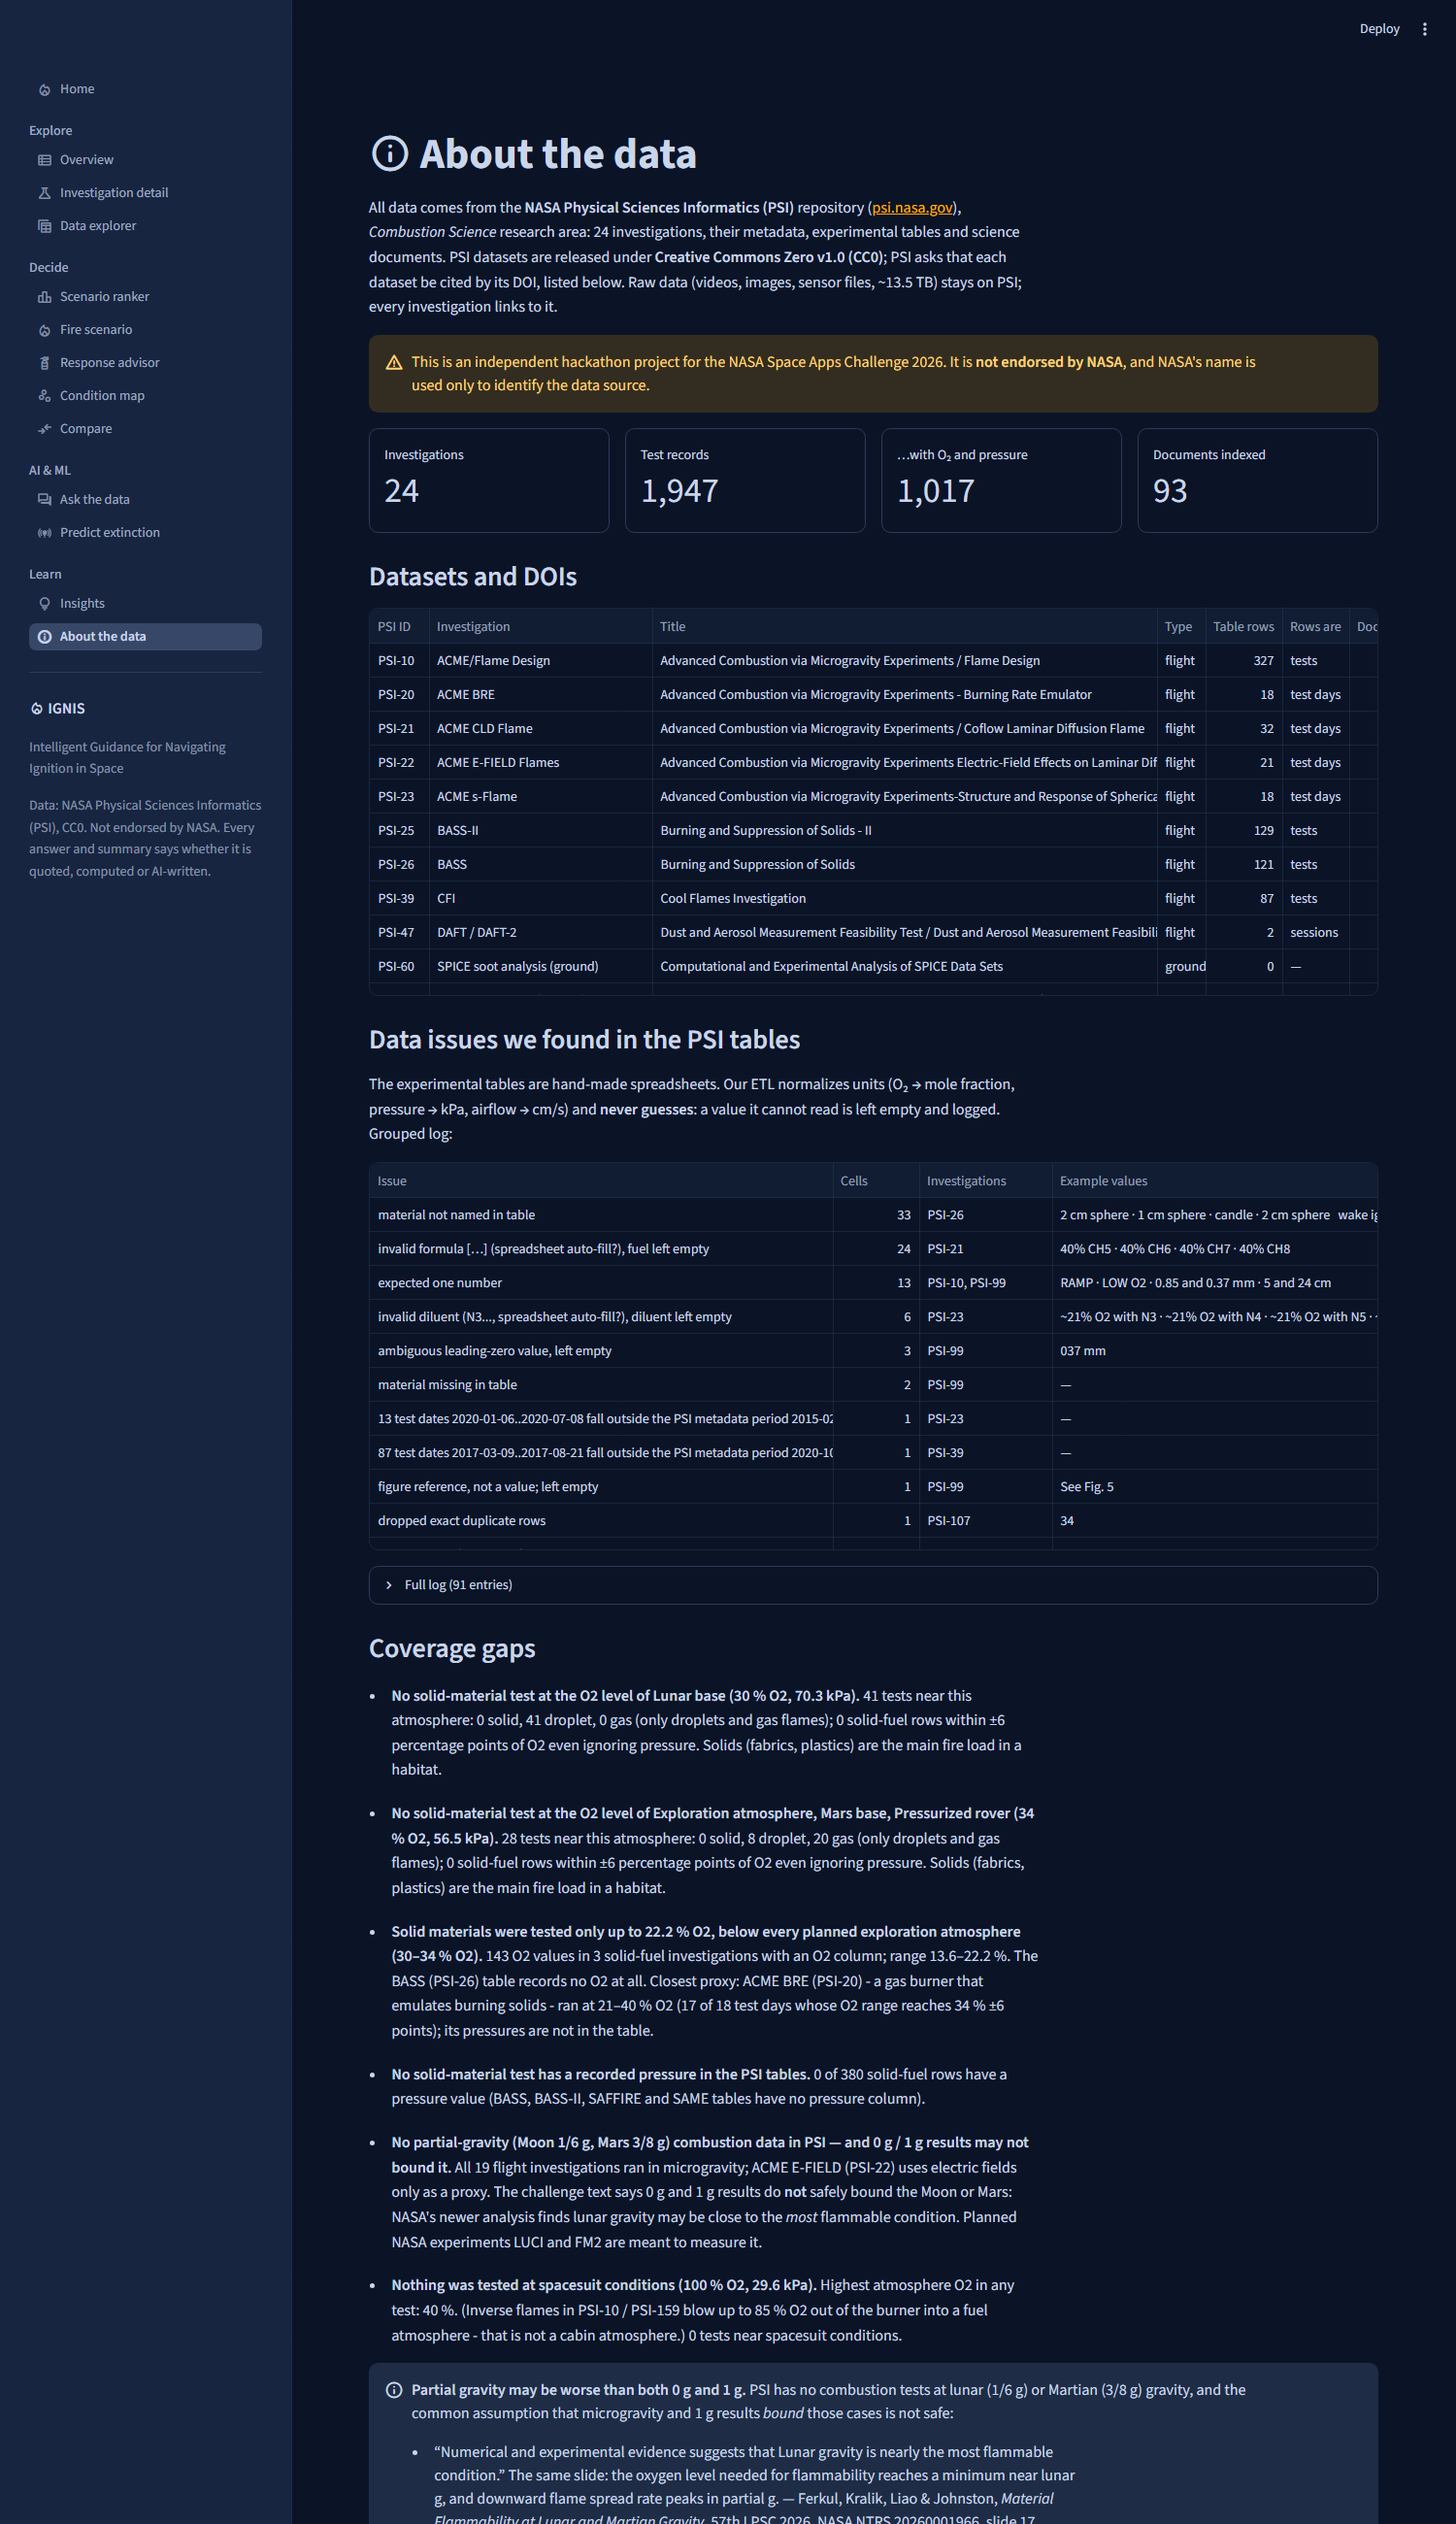
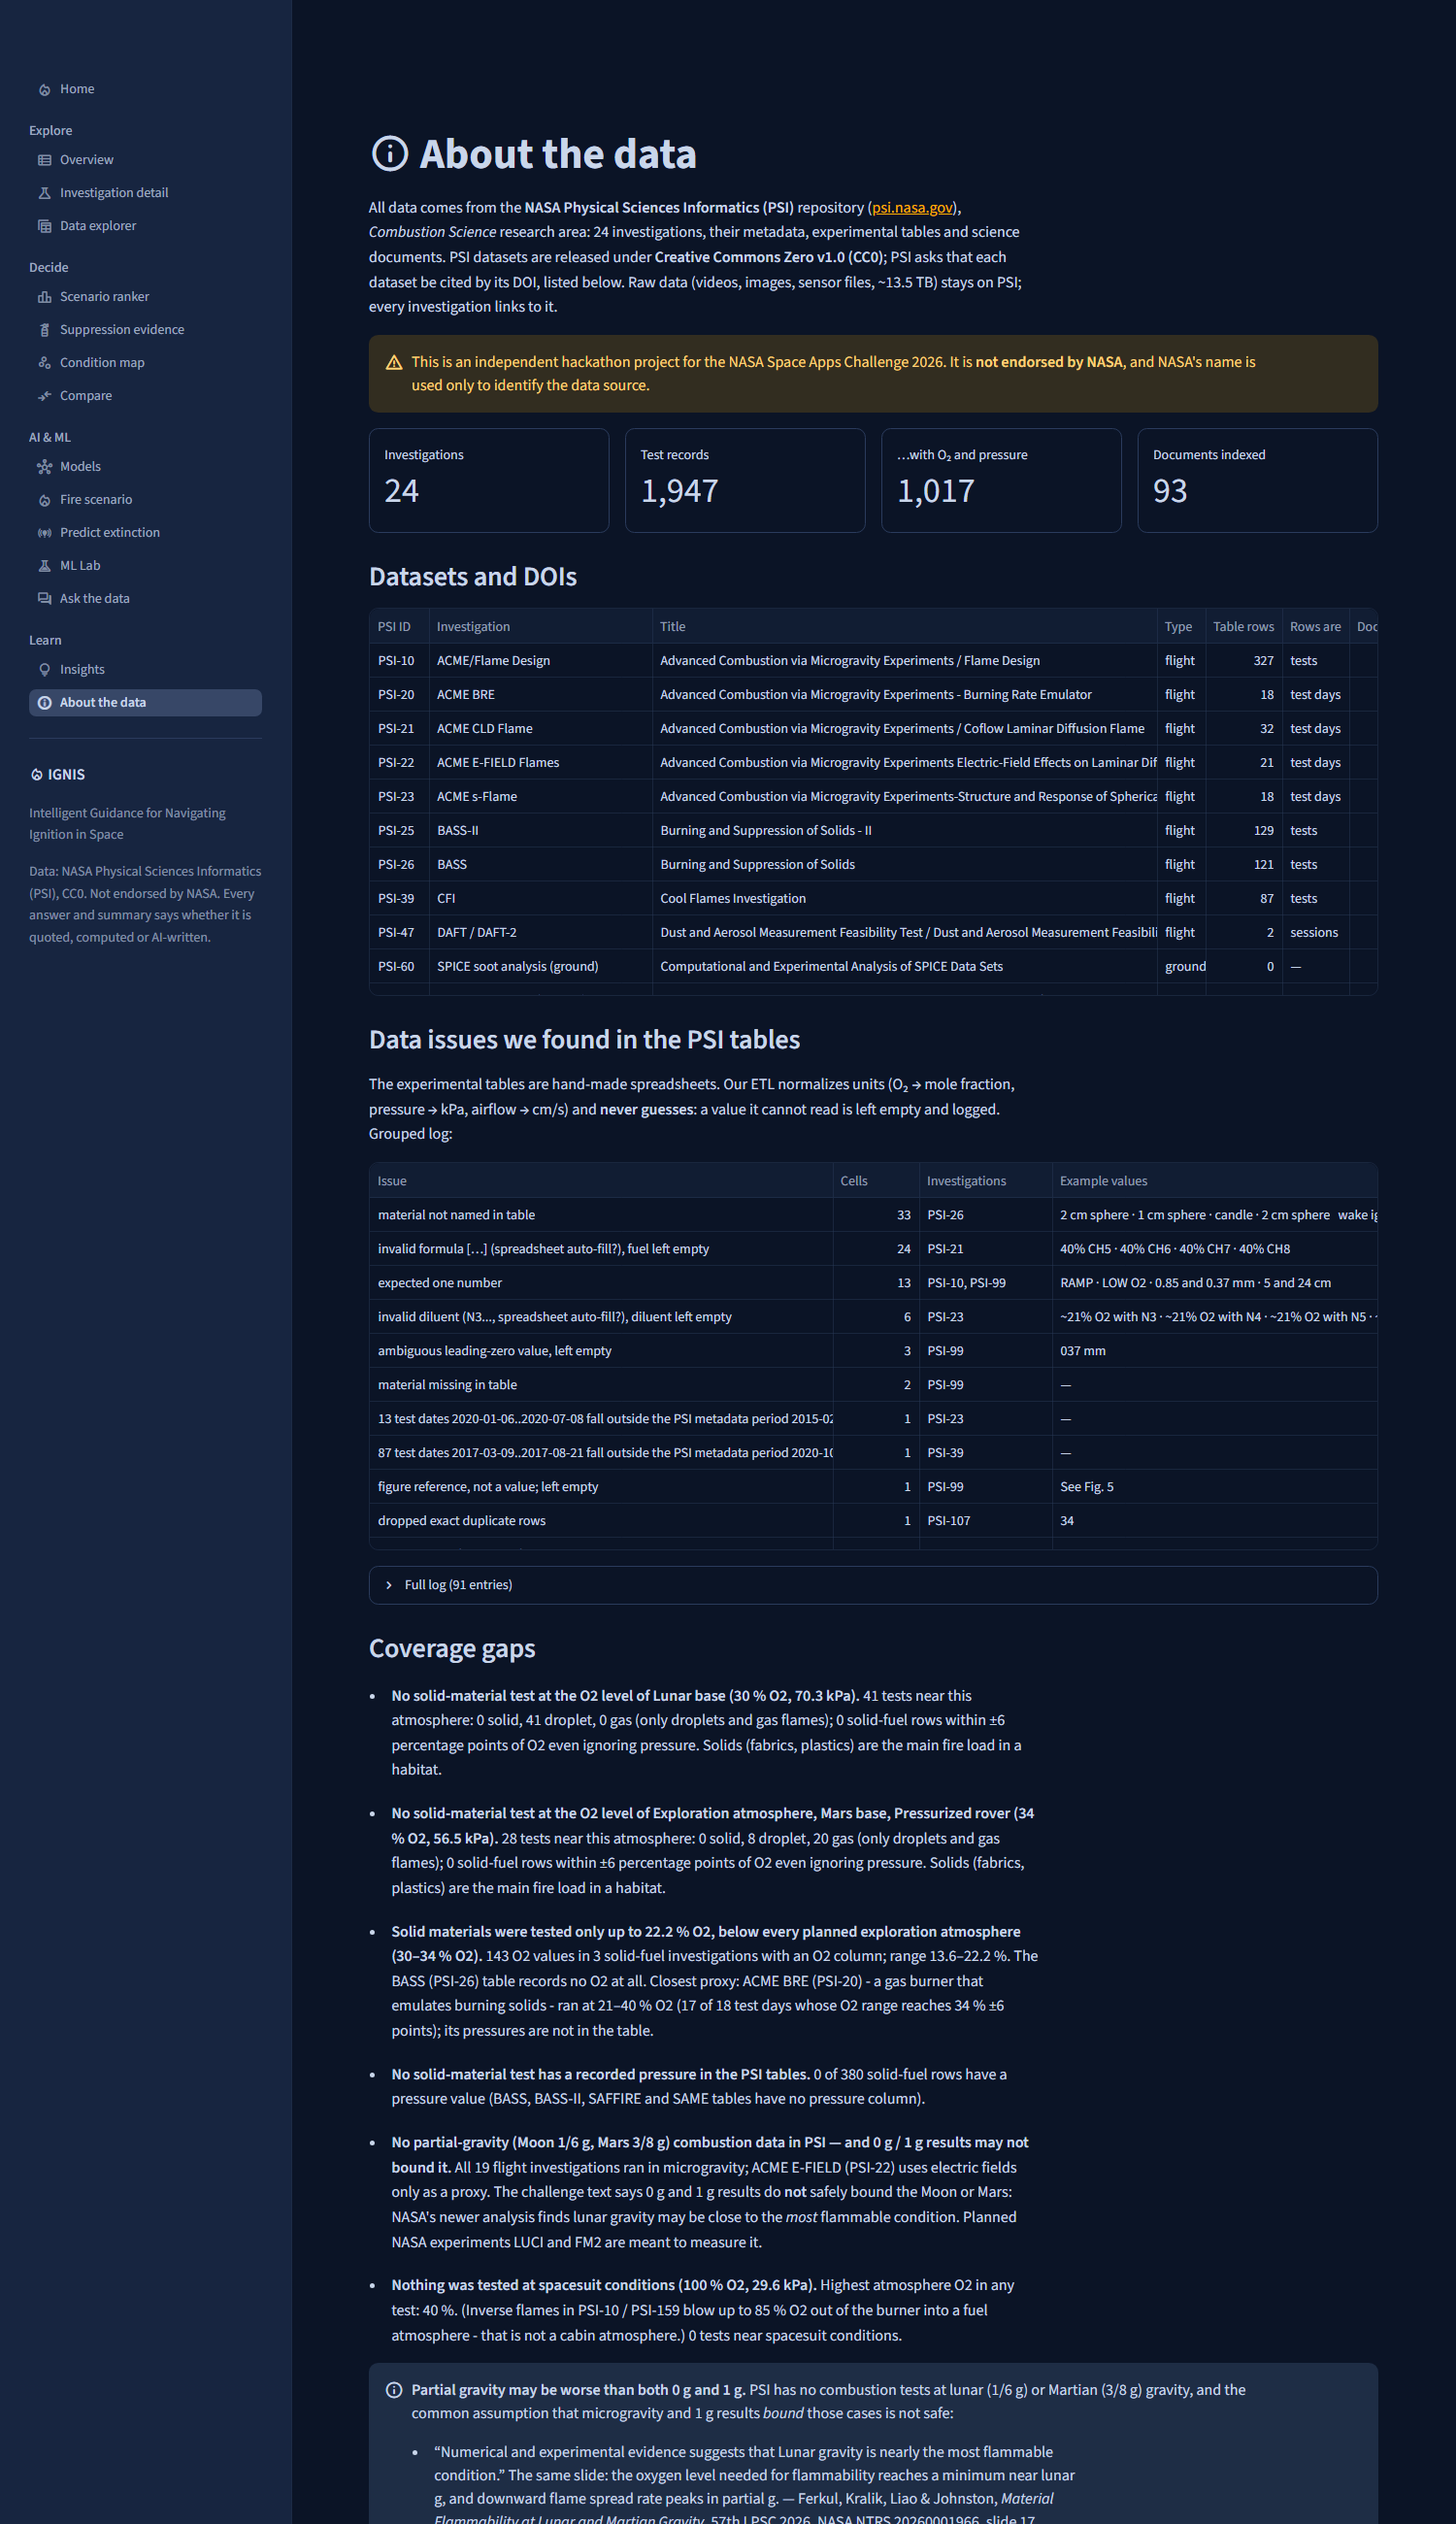
Demo polish: no developer toolbar, no local skills nudge; all screenshots re-taken after items 1-4
#65 item 5 (pc3 part):
- .streamlit/config.toml: [client] toolbarMode = "minimal" (no Deploy / rerun / clear-cache; the menu stays
  for the light/dark switch) and [server] headless = true. Streamlit never shows its local "Help agents
  write better apps" (install skills) nudge in headless mode, the mode Streamlit Community Cloud uses;
  the URL is still printed, the browser just does not pop up (app/README run line updated).
- All 15 screenshots re-taken (dark, 1500 px) with items 1-4: Home model section and closest-evidence
  line, Suppression evidence, Ranker "tests near" column. Habitat sources (pc2, #64 item 3) and the BRE
  report rows (pc1, #63 item 2) will flow in without app changes; screenshots get one more pass then.

Refs #65

Changed region(s): [[0.0, 0.2181, 0.184, 0.3738], [0.0307, 0.1246, 0.1227, 0.1869]]

diff --git a/app/tests/test_app_pages.py b/app/tests/test_app_pages.py
@@ -547,6 +547,8 @@ def test_theme_has_light_and_dark():
     import tomllib
     cfg = tomllib.loads((APP_DIR.parent / ".streamlit" / "config.toml").read_text(encoding="utf-8"))
     assert cfg["theme"]["dark"]["backgroundColor"] == "#0B1426"
+    assert cfg["client"]["toolbarMode"] == "minimal"     # #65 item 5: no developer toolbar in demo / video
+    assert cfg["server"]["headless"] is True             # ...and no local "install skills" nudge
     assert cfg["theme"]["dark"]["primaryColor"] == "#F26419"
     assert cfg["theme"]["light"]["backgroundColor"] == "#FFFFFF" and "base" not in cfg["theme"]["light"]
 

diff --git a/app/README.md b/app/README.md
@@ -6,7 +6,7 @@ Streamlit dashboard. Reads `processed/` (main's ETL, pc2's AI files) and imports
 
 ```bash
 pip install -r requirements.txt
-streamlit run app/main.py          # http://localhost:8501
+streamlit run app/main.py          # then open http://localhost:8501 (headless: no browser pop-up)
 python -m pytest -q app/tests      # renders every page against the real data
 ```
 
